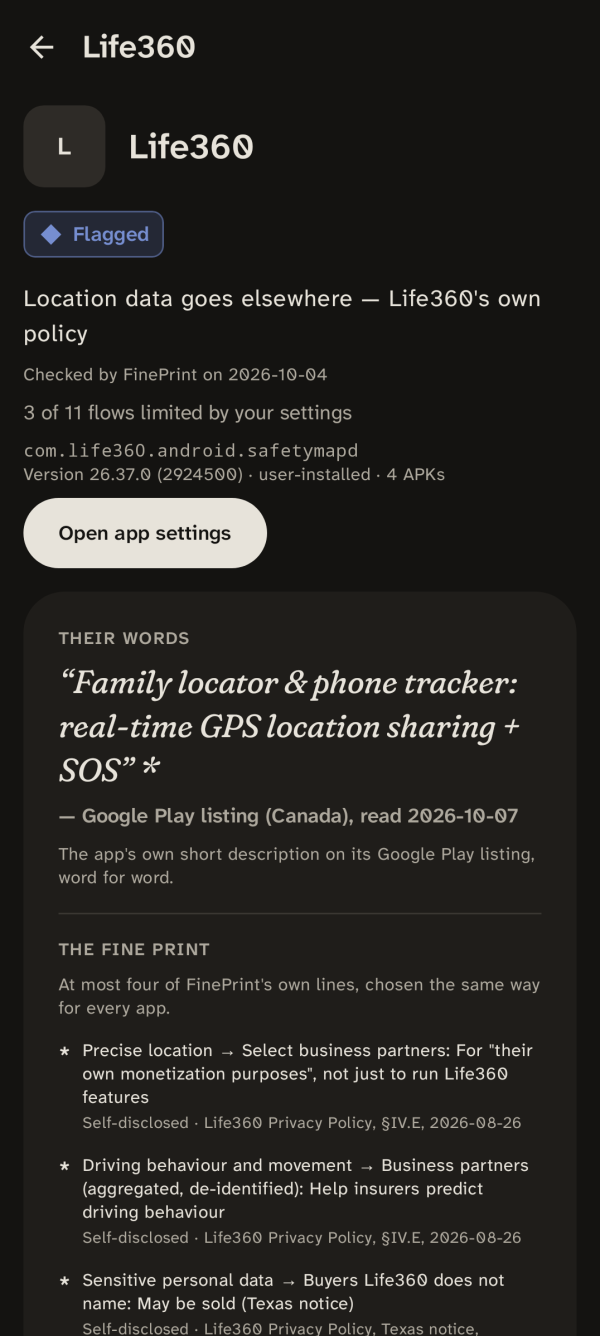
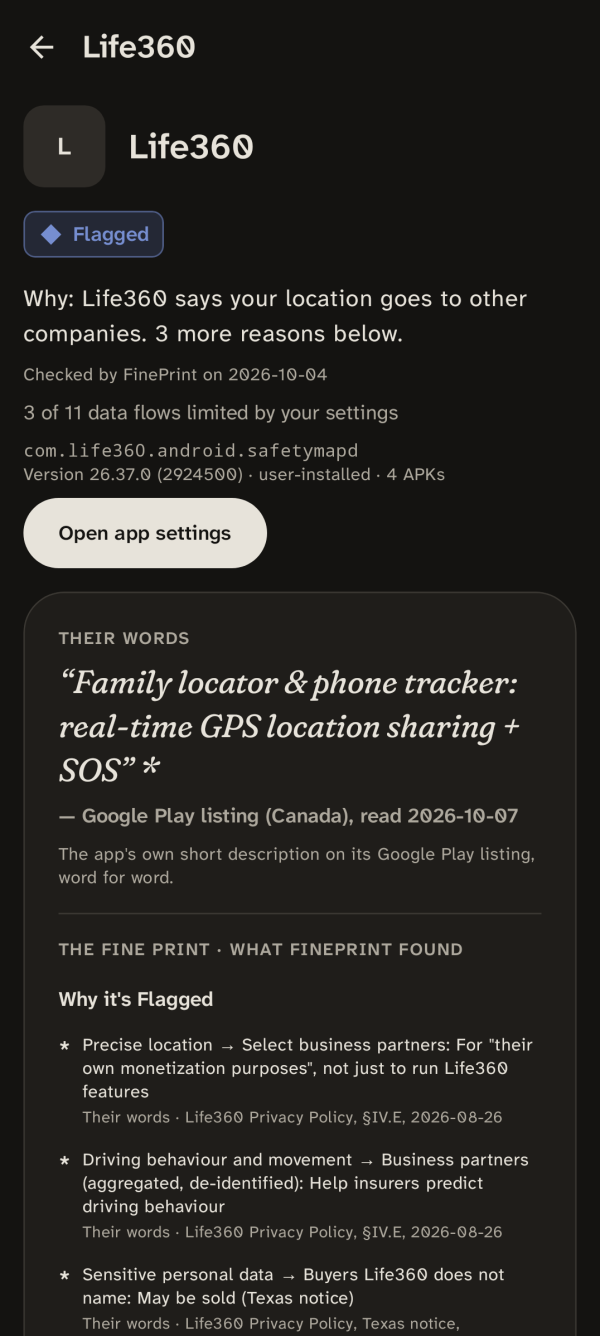
README: the status, and screenshots from bundle 2026.10.09
The schema is at v1.7, with v1.6 and v1.7 summed up, and a line on the
reading pass. readmeScreenshots redrew the home and Life360, light and
dark, from bundle 2026.10.09.

Claude-Session: https://claude.ai/code/session_016cezgH7PfKCPMWXu7PCC2T

diff --git a/README.md b/README.md
@@ -19,10 +19,10 @@ supported by exactly one hardcoded ad that knows nothing about you.
 
 <p>
   <img src="docs/screenshots/home-light.png" width="300" alt="The home: At a glance, where your apps' data can go, then the Flagged apps">
-  <img src="docs/screenshots/detail-light.png" width="300" alt="Life360's page: its tier, its own Play description, and the fine print, each line with its source">
+  <img src="docs/screenshots/detail-light.png" width="300" alt="Life360's page: its tier and why, its own Play description, and the fine print, what set the tier first, each line with its source">
 </p>
 
-Drawn by the screenshot tests (`./gradlew readmeScreenshots`), never by hand, from knowledge bundle 2026.10.08
+Drawn by the screenshot tests (`./gradlew readmeScreenshots`), never by hand, from knowledge bundle 2026.10.09
 and the scan fixture: the test emulator's apps, plus Google Maps, which has a record but isn't installed there.
 In dark mode: [the home](docs/screenshots/home-dark.png) and [Life360](docs/screenshots/detail-dark.png).
 
@@ -67,7 +67,7 @@ and commit with the GitHub noreply address (`git config user.email <id>+<user>@u
 
 ## Status
 
-G1 to G3 are signed off on an Android 17 emulator, G5 is built, and the schema is at v1.5:
+G1 to G3 are signed off on an Android 17 emulator, G5 is built, and the schema is at v1.7:
 
 - G1, the scanner: installed apps, their permissions and the tracker SDKs in their code (Arity in
   Life360).
@@ -92,6 +92,14 @@ G1 to G3 are signed off on an Android 17 emulator, G5 is built, and the schema i
 - Schema v1.4 and v1.5: `store_tagline` on app records (Life360, Facebook and TikTok, quote-checked
   against the saved listing); every flow has an id; and a record's changes, like Reviewed marks,
   count rulings, lawsuits and a flow's evidence, never wording.
+- Schema v1.6 and v1.7: when FinePrint checked an app (Checked by FinePrint, or Their words only);
+  whether a claim is before a court or a regulator, and a regulator's formal proceeding; flows that
+  hang on a setting FinePrint can't see (shown, never scored); a tracker's sourced purpose; and a
+  short line for each law, shown first, with the law's full text opening under it.
+- The reading pass: plain words throughout, with a Voice section in `docs/METHOD.md` and a
+  readability report on every build (CI warns, never fails); under each app's name, the reason for
+  its tier ("Why: Life360 says your location goes to other companies"), with what set it listed
+  first under "Why it's Flagged"; a search bar on the home; and an edge on every card in dark mode.
 - The laws table, reviewed entry by entry: eight laws in force (the US, Canada, China, the EU,
   Israel and Russia), each with who it binds, whether the company may tell you it handed data
   over, its own review date and a Stale marker; an EU regulation is keyed to the member states it
